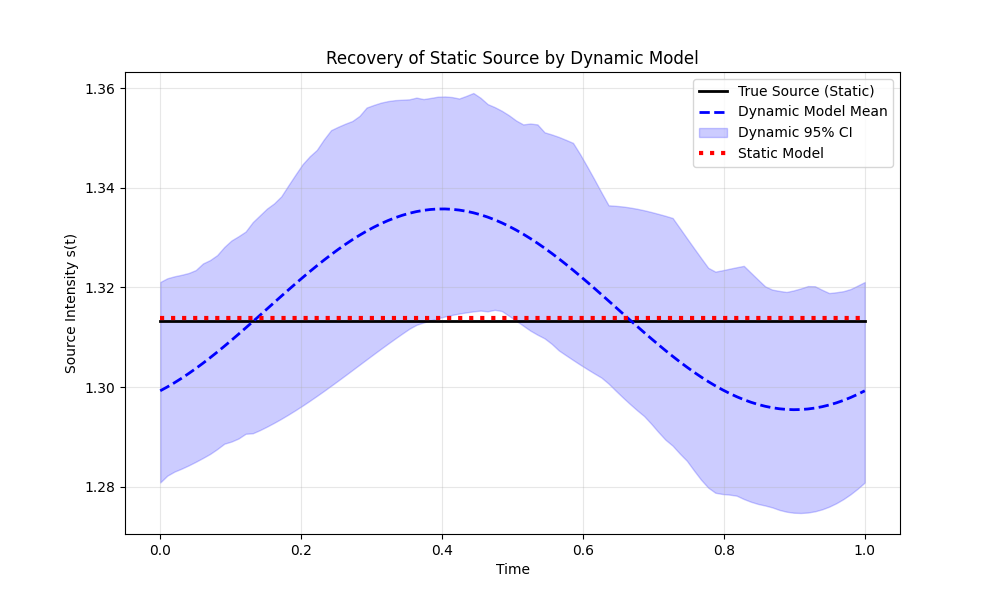
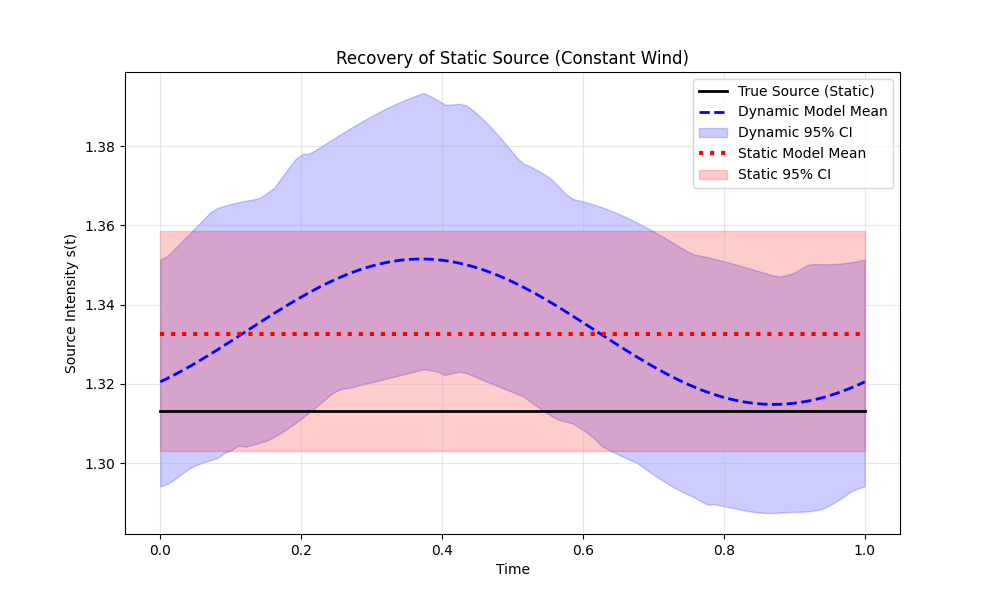
Static model comparison

diff --git a/Problem_solving/presentation_plots.py b/Problem_solving/presentation_plots.py
@@ -318,6 +318,33 @@ def run_inference_and_plots():
     ani = animation.FuncAnimation(fig, update_side_by_side, frames=Nt, interval=200)
     ani.save(os.path.join(OUTPUT_DIR, 'presentation_comparison.gif'), writer='pillow')
     print(f"Saved {OUTPUT_DIR}/presentation_comparison.gif")
+    
+    # --- PLOT 5: Side-by-Side Comparison (Snapshot) ---
+    print("Generating Side-by-Side Comparison (Dynamic Data)...")
+    # Use max emission time for snapshot
+    t_snap = t_max
+    wind_snap = wind_function(t_snap, consts['wa0'], consts['wa'], consts['wb'])
+    
+    # True Data
+    A_true = A_matrix(data['X_flat'], data['Y_flat'], consts, wind_vector=wind_snap)
+    s_true_val = s_function(t_snap, true_ak, true_bk, true_a0)
+    mu_true = (np.dot(s_true_val, A_true) + 1.0).reshape(Nx, Nx)
+    
+    # Dynamic Model Mean
+    A_dyn = A_matrix(data['X_flat'], data['Y_flat'], consts_dyn, wind_vector=wind_snap)
+    s_dyn_val = s_function(t_snap, p_dyn_ak, p_dyn_bk, p_dyn_a0)
+    mu_dyn_snap = (np.dot(s_dyn_val, A_dyn) + 1.0).reshape(Nx, Nx)
+    
+    fig, axes = plt.subplots(1, 2, figsize=(12, 5))
+    vmax = max(np.max(mu_true), np.max(mu_dyn_snap))
+    im1 = axes[0].contourf(data['X1'], data['X2'], mu_true, levels=20, cmap='viridis', vmin=0, vmax=vmax)
+    axes[0].set_title("True Data (Dynamic Source)")
+    im2 = axes[1].contourf(data['X1'], data['X2'], mu_dyn_snap, levels=20, cmap='viridis', vmin=0, vmax=vmax)
+    axes[1].set_title("Recovered Model (Dynamic Mean)")
+    plt.colorbar(im1, ax=axes.ravel().tolist())
+    plt.savefig(os.path.join(OUTPUT_DIR, 'dynamic_data_comparison.png'))
+    plt.close()
+    print(f"Saved {OUTPUT_DIR}/dynamic_data_comparison.png")
 
 
 def run_rmse_scaling_analysis():
@@ -477,6 +504,7 @@ def run_rmse_scaling_analysis():
     plt.close()
     print(f"Saved {OUTPUT_DIR}/presentation_location_convergence.png")
 
+
 def run_static_data_analysis():
     print("Running Static Data Analysis (Dynamic Model on Static Data)...")
     np.random.seed(42)
@@ -488,7 +516,8 @@ def run_static_data_analysis():
         'XS': [2.0], 'YS': [-2.0], 'ZS': 0, 'Z': 0,
         'a_H': 1, 'b_H': 1, 'w': 1, 'a_V': 1, 'b_V': 1, 'h': 1,
         'gamma_H': 1, 'gamma_V': 1,
-        'wa0': np.array([0.0, 4.0]), 'wa': [np.array([2.0, 0.0])], 'wb': [np.array([0.0, 1.0])]
+        # CONSTANT WIND for Static Analysis
+        'wa0': np.array([0.0, 4.0]), 'wa': [np.array([0.0, 0.0])], 'wb': [np.array([0.0, 0.0])]
     }
     
     # STATIC Source: ak=0, bk=0
@@ -540,7 +569,8 @@ def run_static_data_analysis():
     chain_stat, acc_stat = sampler_stat.sample(5000)
     print(f"  Static MCMC Acceptance: {acc_stat:.3f}")
     
-    mean_stat = np.mean(chain_stat[1000:], axis=0)
+    chain_stat_burned = chain_stat[1000:]
+    mean_stat = np.mean(chain_stat_burned, axis=0)
 
     # --- Plot 1: Source Recovery ---
     print("  Generating Source Recovery Plot...")
@@ -561,17 +591,33 @@ def run_static_data_analysis():
     s_dyn_lower = np.percentile(s_dyn_samples, 2.5, axis=0)
     s_dyn_upper = np.percentile(s_dyn_samples, 97.5, axis=0)
     
-    # Static Estimate
-    s_stat_vals = s_function(t_plot, np.array([0.0]), np.array([0.0]), mean_stat[0:1]).flatten()
+    # Static Estimate & CI
+    s_stat_samples = []
+    indices_stat = np.random.choice(len(chain_stat_burned), size=200, replace=False)
+    for idx in indices_stat:
+        sample = chain_stat_burned[idx]
+        # Static model: ak=0, bk=0
+        s_t = s_function(t_plot, np.array([[0.0]]), np.array([[0.0]]), sample[0:1])
+        s_stat_samples.append(s_t.flatten())
+    s_stat_samples = np.array(s_stat_samples)
+    s_stat_mean = np.mean(s_stat_samples, axis=0)
+    s_stat_lower = np.percentile(s_stat_samples, 2.5, axis=0)
+    s_stat_upper = np.percentile(s_stat_samples, 97.5, axis=0)
     
     plt.figure(figsize=(10, 6))
     plt.plot(t_plot, s_true, 'k-', linewidth=2, label='True Source (Static)')
+    
+    # Dynamic
     plt.plot(t_plot, s_dyn_mean, 'b--', linewidth=2, label='Dynamic Model Mean')
     plt.fill_between(t_plot, s_dyn_lower, s_dyn_upper, color='blue', alpha=0.2, label='Dynamic 95% CI')
-    plt.plot(t_plot, s_stat_vals, 'r:', linewidth=3, label='Static Model')
+    
+    # Static
+    plt.plot(t_plot, s_stat_mean, 'r:', linewidth=3, label='Static Model Mean')
+    plt.fill_between(t_plot, s_stat_lower, s_stat_upper, color='red', alpha=0.2, label='Static 95% CI')
+    
     plt.xlabel('Time')
     plt.ylabel('Source Intensity s(t)')
-    plt.title('Recovery of Static Source by Dynamic Model')
+    plt.title('Recovery of Static Source (Constant Wind)')
     plt.legend()
     plt.grid(True, alpha=0.3)
     plt.savefig(os.path.join(OUTPUT_DIR, 'static_data_source_recovery.png'))
@@ -595,6 +641,187 @@ def run_static_data_analysis():
     plt.savefig(os.path.join(OUTPUT_DIR, 'static_data_mcmc_chains.png'))
     plt.close()
     print(f"Saved {OUTPUT_DIR}/static_data_mcmc_chains.png")
+    
+    # --- Plot 3: Side-by-Side Comparison (Snapshot) ---
+    print("  Generating Side-by-Side Comparison...")
+    # Reconstruct Dynamic Model Mean
+    p_dyn_a0 = mean_dyn[0:1]
+    p_dyn_ak = mean_dyn[1:2].reshape(1,1)
+    p_dyn_bk = mean_dyn[2:3].reshape(1,1)
+    p_dyn_XS = mean_dyn[3:4]
+    p_dyn_YS = mean_dyn[4:5]
+    
+    consts_dyn = consts.copy()
+    consts_dyn['XS'] = p_dyn_XS
+    consts_dyn['YS'] = p_dyn_YS
+    
+    # Use max time for snapshot
+    t_snap = T
+    wind_snap = wind_function(t_snap, consts['wa0'], consts['wa'], consts['wb'])
+    
+    # True Data (Static)
+    A_true = A_matrix(data['X_flat'], data['Y_flat'], consts, wind_vector=wind_snap)
+    s_true_val = s_function(t_snap, true_ak, true_bk, true_a0)
+    mu_true = (np.dot(s_true_val, A_true) + 1.0).reshape(Nx, Nx)
+    
+    # Dynamic Model Mean
+    A_dyn = A_matrix(data['X_flat'], data['Y_flat'], consts_dyn, wind_vector=wind_snap)
+    s_dyn_val = s_function(t_snap, p_dyn_ak, p_dyn_bk, p_dyn_a0)
+    mu_dyn = (np.dot(s_dyn_val, A_dyn) + 1.0).reshape(Nx, Nx)
+    
+    fig, axes = plt.subplots(1, 2, figsize=(12, 5))
+    vmax = max(np.max(mu_true), np.max(mu_dyn))
+    im1 = axes[0].contourf(data['X1'], data['X2'], mu_true, levels=20, cmap='viridis', vmin=0, vmax=vmax)
+    axes[0].set_title("True Data (Static Source)")
+    im2 = axes[1].contourf(data['X1'], data['X2'], mu_dyn, levels=20, cmap='viridis', vmin=0, vmax=vmax)
+    axes[1].set_title("Recovered Model (Dynamic Mean)")
+    plt.colorbar(im1, ax=axes.ravel().tolist())
+    plt.savefig(os.path.join(OUTPUT_DIR, 'static_data_comparison.png'))
+    plt.close()
+    print(f"Saved {OUTPUT_DIR}/static_data_comparison.png")
+
+def run_static_rmse_scaling_analysis():
+    print("Running Static RMSE Scaling Analysis (Static Data)...")
+    np.random.seed(42)
+    grid_sizes = [2, 3, 4, 5, 6]
+    
+    rmse_intensity_static = []
+    rmse_intensity_dyn = []
+    rmse_loc_static = []
+    rmse_loc_dyn = []
+    
+    est_locs_static = []
+    est_locs_dyn = []
+    
+    T, Nt, Lx = 1.0, 10, 5.0
+    consts = {
+        'RHO_CH4': 0.656, 'U': 5.0,
+        'XS': [2.0], 'YS': [-2.0], 'ZS': 0, 'Z': 0,
+        'a_H': 1, 'b_H': 1, 'w': 1, 'a_V': 1, 'b_V': 1, 'h': 1,
+        'gamma_H': 1, 'gamma_V': 1,
+        # CONSTANT WIND for Static Analysis
+        'wa0': np.array([0.0, 4.0]), 'wa': [np.array([0.0, 0.0])], 'wb': [np.array([0.0, 0.0])]
+    }
+    # Static Source
+    true_a0 = np.array([1.0])
+    true_ak = np.array([[0.0]])
+    true_bk = np.array([[0.0]])
+    true_loc = np.array([consts['XS'][0], consts['YS'][0]])
+    
+    model = Model(beta=1.0, sigma_epsilon=0.1, physical_constants=consts)
+    
+    for Nx in grid_sizes:
+        print(f"  Grid {Nx}x{Nx}...")
+        data = model.gen_data(T, Nt, Nx, Lx, true_ak, true_bk, true_a0)
+        winds = wind_function(data['times'], consts['wa0'], consts['wa'], consts['wb'])
+        
+        # Static Model Fit
+        def lp_stat(fc):
+            return -0.5*np.sum(fc[0]**2) + model.log_likelihood({'a0':fc[0:1], 'XS':fc[1:2], 'YS':fc[2:3]}, data, precomputed_winds=winds)
+        
+        sampler_stat = AdaptiveMetropolis(lp_stat, np.array([0.5, 0.0, 0.0]), t0=200)
+        chain_stat, _ = sampler_stat.sample(1000)
+        mean_stat = np.mean(chain_stat[500:], axis=0)
+        
+        # Dynamic Model Fit
+        def lp_dyn(fc):
+             p = {'a0':fc[0:1], 'ak':fc[1:2].reshape(1,1), 'bk':fc[2:3].reshape(1,1), 'XS':fc[3:4], 'YS':fc[4:5]}
+             return log_prior_coefficients([p['a0'], p['ak'], p['bk']]) + model.log_likelihood(p, data, precomputed_winds=winds)
+        
+        sampler_dyn = AdaptiveMetropolis(lp_dyn, np.array([1.0, 0.1, 0.1, 2.0, -2.0]), t0=200)
+        chain_dyn, _ = sampler_dyn.sample(1000)
+        mean_dyn = np.mean(chain_dyn[500:], axis=0)
+        
+        # Metrics
+        t_eval = np.linspace(0, T, 50)
+        s_true = np.array([s_function(t, true_ak, true_bk, true_a0)[0] for t in t_eval])
+        s_stat = np.array([s_function(t, [0], [0], [mean_stat[0]])[0] for t in t_eval])
+        s_dyn = np.array([s_function(t, [mean_dyn[1]], [mean_dyn[2]], [mean_dyn[0]])[0] for t in t_eval])
+        
+        rmse_intensity_static.append(np.sqrt(np.mean((s_true - s_stat)**2)))
+        rmse_intensity_dyn.append(np.sqrt(np.mean((s_true - s_dyn)**2)))
+        
+        loc_stat = mean_stat[1:3]
+        loc_dyn = mean_dyn[3:5]
+        rmse_loc_static.append(np.linalg.norm(loc_stat - true_loc))
+        rmse_loc_dyn.append(np.linalg.norm(loc_dyn - true_loc))
+        
+        est_locs_static.append(loc_stat)
+        est_locs_dyn.append(loc_dyn)
+        
+    # Plotting RMSE
+    fig, axes = plt.subplots(1, 2, figsize=(14, 6))
+    sensors = [n*n for n in grid_sizes]
+    
+    axes[0].plot(sensors, rmse_intensity_static, 'r--o', label='Static Model')
+    axes[0].plot(sensors, rmse_intensity_dyn, 'b-o', label='Dynamic Model')
+    axes[0].set_xlabel('Number of Sensors')
+    axes[0].set_ylabel('RMSE (Source Intensity)')
+    axes[0].set_title('Static Data: Intensity Recovery')
+    axes[0].legend()
+    axes[0].grid(True)
+    
+    axes[1].plot(sensors, rmse_loc_static, 'r--o', label='Static Model')
+    axes[1].plot(sensors, rmse_loc_dyn, 'b-o', label='Dynamic Model')
+    axes[1].set_xlabel('Number of Sensors')
+    axes[1].set_ylabel('Location Error (m)')
+    axes[1].set_title('Static Data: Location Error')
+    axes[1].legend()
+    axes[1].grid(True)
+    
+    plt.tight_layout()
+    plt.savefig(os.path.join(OUTPUT_DIR, 'static_data_rmse_scaling.png'))
+    plt.close()
+    print(f"Saved {OUTPUT_DIR}/static_data_rmse_scaling.png")
+    
+    # Plotting Convergence
+    plt.figure(figsize=(10, 10))
+    plt.plot(true_loc[0], true_loc[1], 'k*', markersize=20, label='True Source')
+    
+    stat_x = [p[0] for p in est_locs_static]
+    stat_y = [p[1] for p in est_locs_static]
+    dyn_x = [p[0] for p in est_locs_dyn]
+    dyn_y = [p[1] for p in est_locs_dyn]
+    
+    plt.plot(stat_x, stat_y, 'r--', alpha=0.3)
+    plt.plot(dyn_x, dyn_y, 'b--', alpha=0.3)
+    
+    norm = plt.Normalize(min(sensors), max(sensors))
+    
+    for i, (x, y) in enumerate(zip(stat_x, stat_y)):
+        n_s = sensors[i]
+        color = plt.cm.Reds(norm(n_s))
+        plt.scatter(x, y, s=150, edgecolors=color, facecolors='none', linewidths=2, zorder=3)
+        plt.annotate(f"{n_s}", (x, y), xytext=(-15, 10), textcoords='offset points', fontsize=10, color='darkred')
+        
+    for i, (x, y) in enumerate(zip(dyn_x, dyn_y)):
+        n_s = sensors[i]
+        color = plt.cm.Blues(norm(n_s))
+        plt.scatter(x, y, s=150, facecolors=color, edgecolors='k', zorder=3)
+        plt.annotate(f"{n_s}", (x, y), xytext=(5, 10), textcoords='offset points', fontsize=10, color='darkblue')
+
+    from matplotlib.lines import Line2D
+    legend_elements = [
+        Line2D([0], [0], marker='*', color='w', markerfacecolor='k', markersize=15, label='True Source'),
+        Line2D([0], [0], marker='o', color='w', markerfacecolor='none', markeredgecolor='r', markersize=10, markeredgewidth=2, label='Static (Empty)'),
+        Line2D([0], [0], marker='o', color='w', markerfacecolor='b', markeredgecolor='k', markersize=10, label='Dynamic (Filled)')
+    ]
+    
+    plt.title(f"Static Data: Localization Convergence\n(Labels = Number of Sensors)", fontsize=14)
+    plt.xlabel("X Coordinate (m)")
+    plt.ylabel("Y Coordinate (m)")
+    plt.grid(True, linestyle=':', alpha=0.6)
+    plt.legend(handles=legend_elements, loc='upper right')
+    plt.axis('equal')
+    
+    all_x = stat_x + dyn_x + [true_loc[0]]
+    all_y = stat_y + dyn_y + [true_loc[1]]
+    plt.xlim(min(all_x)-1, max(all_x)+1)
+    plt.ylim(min(all_y)-1, max(all_y)+1)
+    
+    plt.savefig(os.path.join(OUTPUT_DIR, 'static_data_location_convergence.png'), dpi=300)
+    plt.close()
+    print(f"Saved {OUTPUT_DIR}/static_data_location_convergence.png")
 
 if __name__ == "__main__":
     run_constant_source_demo()
@@ -602,3 +829,4 @@ if __name__ == "__main__":
     run_inference_and_plots()
     run_rmse_scaling_analysis()
     run_static_data_analysis()
+    run_static_rmse_scaling_analysis()
